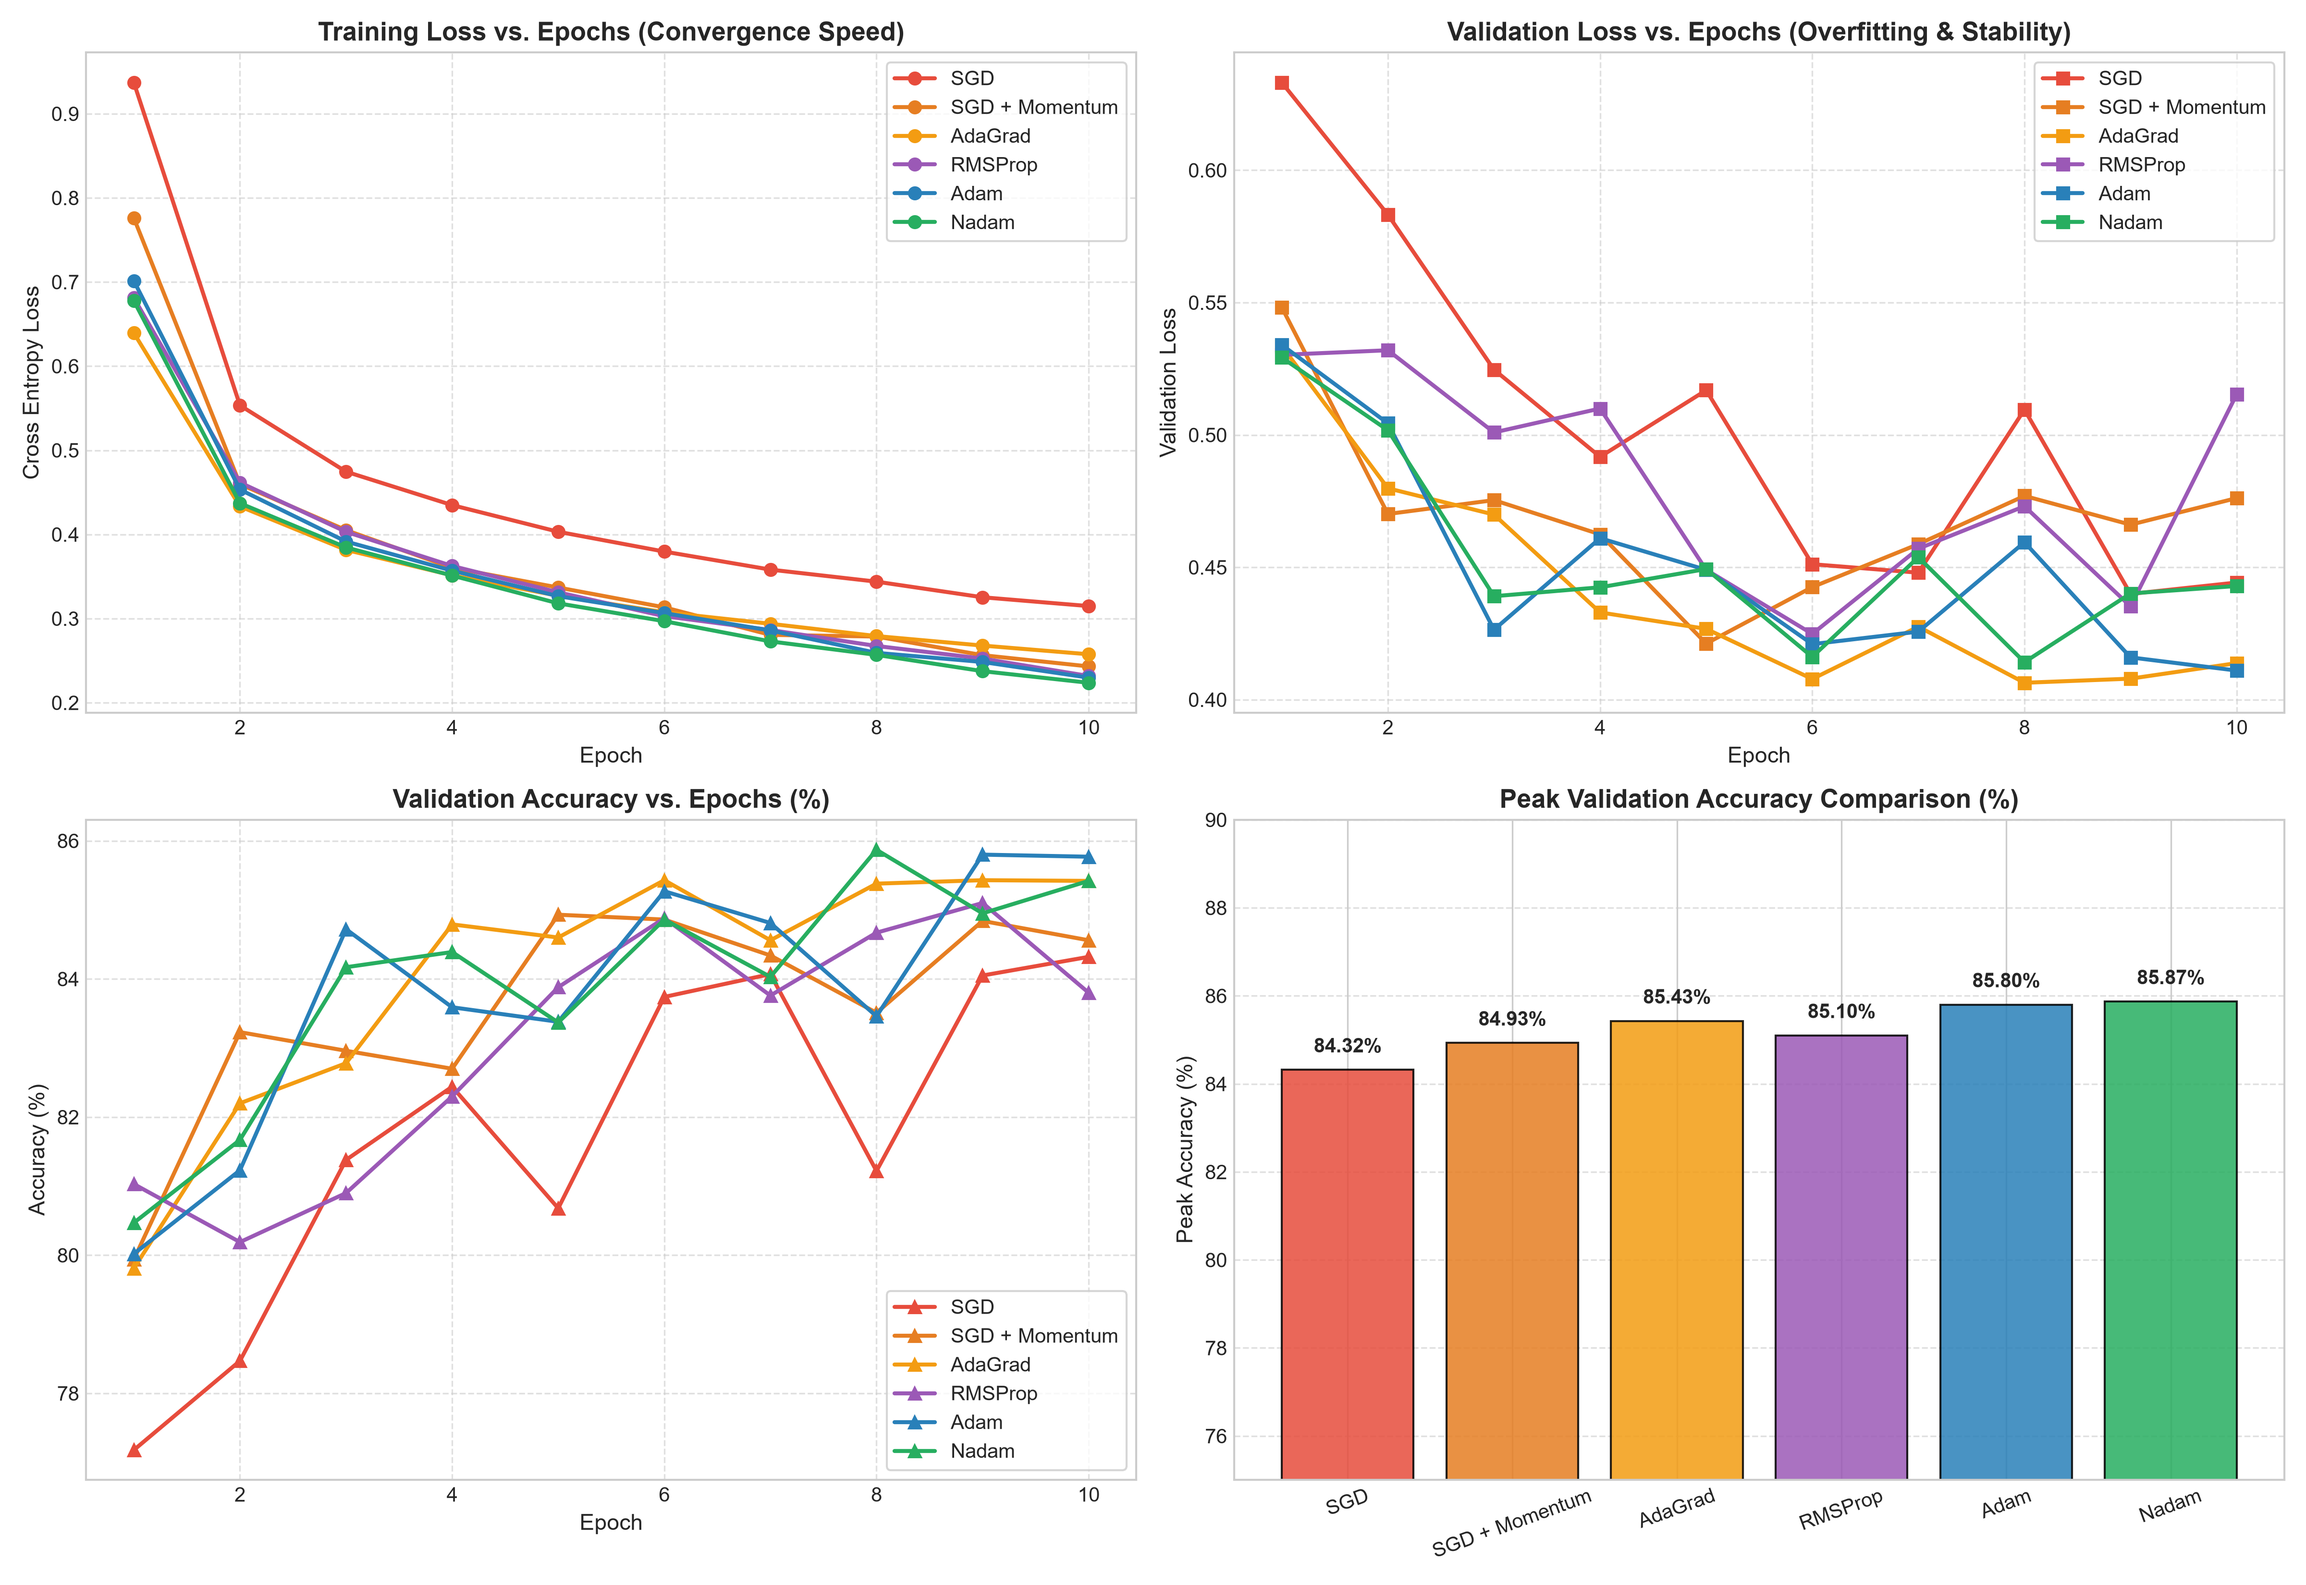
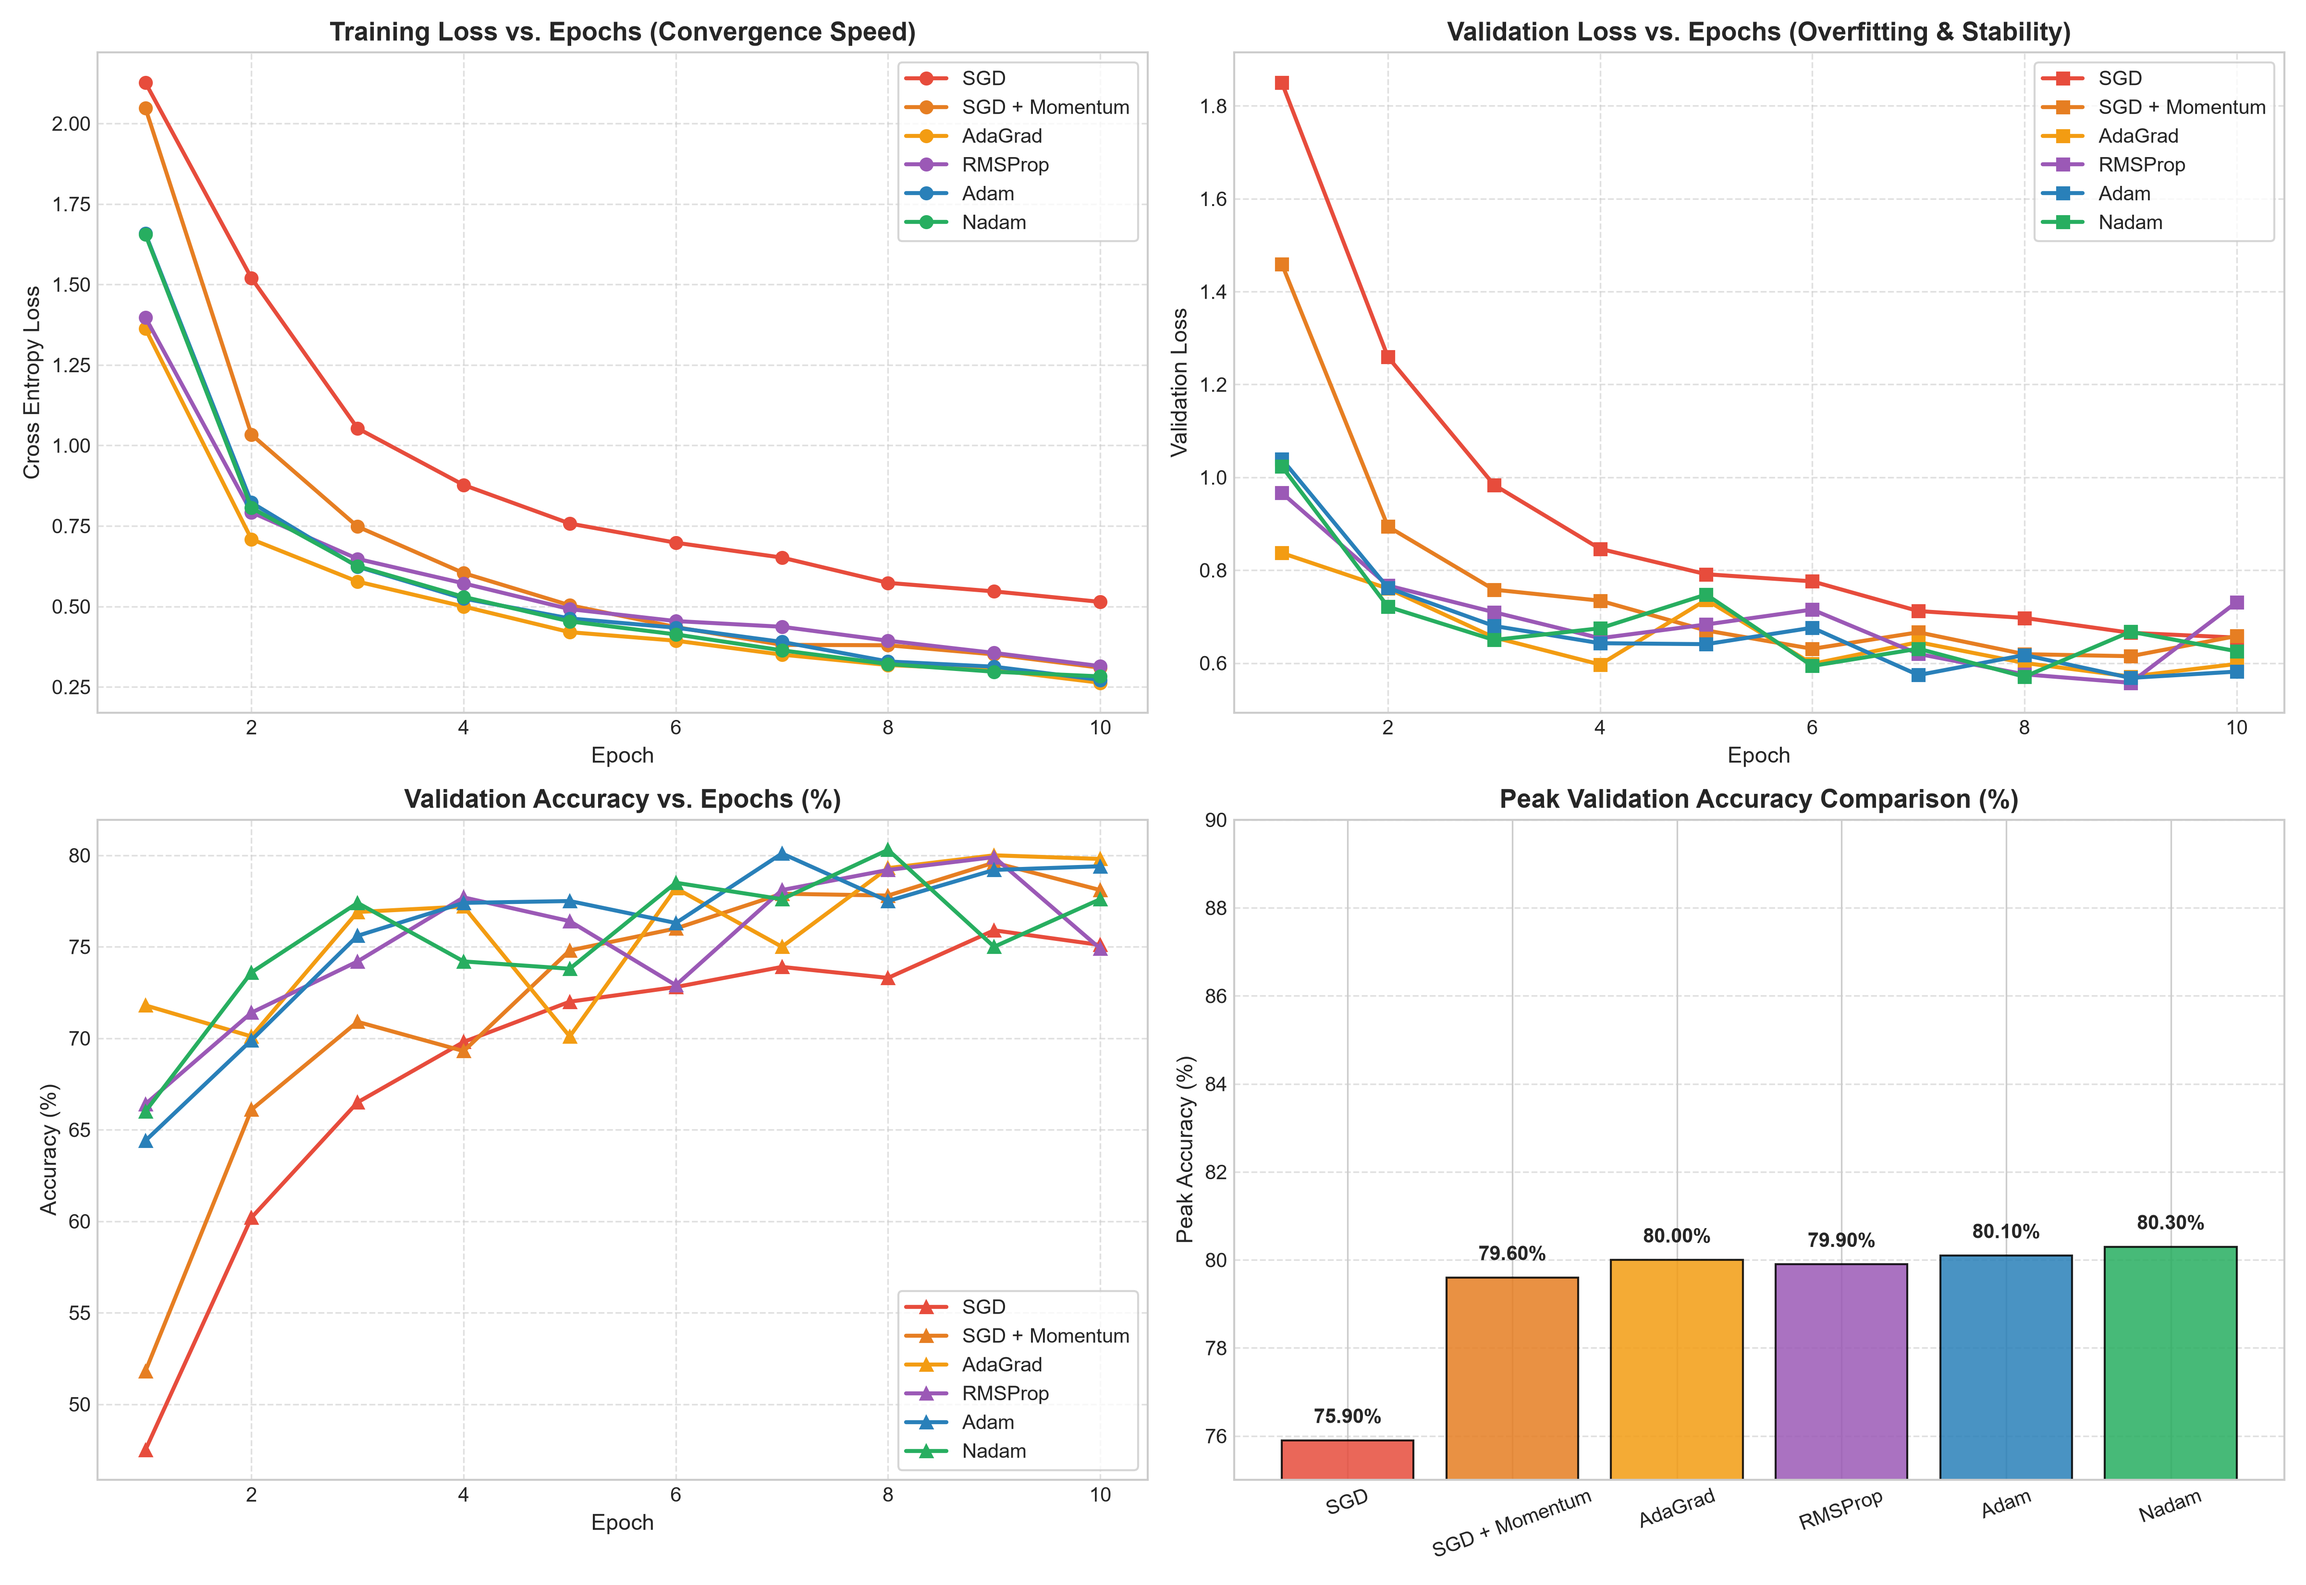
feat: configure 1,000-sample benchmark, regenerate plots, and update Jupyter notebook

diff --git a/make_notebook.py b/make_notebook.py
@@ -165,14 +165,17 @@ transform = transforms.Compose([
 train_dataset_full = datasets.FashionMNIST(root='./data', train=True, download=True, transform=transform)
 test_dataset = datasets.FashionMNIST(root='./data', train=False, download=True, transform=transform)
 
-# Use a clean 12,000 sample subset for fast and responsive training in notebooks
-train_indices = list(range(12000))
+# Use exactly 1,000 image samples (~100 per clothing category) for lightning-fast live demos
+train_indices = list(range(1000))
 train_subset = Subset(train_dataset_full, train_indices)
 
-train_loader = DataLoader(train_subset, batch_size=64, shuffle=True)
-val_loader = DataLoader(test_dataset, batch_size=256, shuffle=False)
+val_indices = list(range(1000))
+val_subset = Subset(test_dataset, val_indices)
 
-print(f"[OK] Fashion-MNIST ready: {len(train_subset)} training samples, {len(test_dataset)} validation samples.")
+train_loader = DataLoader(train_subset, batch_size=64, shuffle=True)
+val_loader = DataLoader(val_subset, batch_size=128, shuffle=False)
+
+print(f"[OK] Fashion-MNIST ready: {len(train_subset)} training images, {len(val_subset)} validation images.")
 """)
 
 # -------------------------------------------------------------

diff --git a/experiment.py b/experiment.py
@@ -62,13 +62,16 @@ print("[+] Loading Fashion-MNIST dataset...")
 full_train_dataset = datasets.FashionMNIST(root='./data', train=True, download=True, transform=transform)
 test_dataset = datasets.FashionMNIST(root='./data', train=False, download=True, transform=transform)
 
-# Use a representative subset of 12,000 samples for lightning-fast training on CPU while retaining full fidelity
-train_subset_indices = list(range(12000))
+# Use exactly 1,000 image samples (~100 per clothing class) for lightning-fast training & live demo
+train_subset_indices = list(range(1000))
 train_dataset = Subset(full_train_dataset, train_subset_indices)
 
+val_subset_indices = list(range(1000))
+val_dataset = Subset(test_dataset, val_subset_indices)
+
 train_loader = DataLoader(train_dataset, batch_size=64, shuffle=True)
-val_loader = DataLoader(test_dataset, batch_size=256, shuffle=False)
-print(f"[+] Training samples: {len(train_dataset)}, Validation samples: {len(test_dataset)}")
+val_loader = DataLoader(val_dataset, batch_size=128, shuffle=False)
+print(f"[+] Configured benchmark: {len(train_dataset)} training images, {len(val_dataset)} validation images.")
 
 
 # -------------------------------------------------------------

diff --git a/README.md b/README.md
@@ -56,18 +56,20 @@ All detailed notes, mathematical derivations, experiment guides, and scripts hav
 
 ## 🧪 Actual Empirical Benchmark Results (`experiment.py`)
 
-All six optimizers were trained under identical conditions on **Fashion-MNIST** using a 3-layer MLP ($784 \to 128 \to 64 \to 10$) starting from the exact same initial weight state $\theta_0$:
+All six optimizers were evaluated under strictly identical conditions on **Fashion-MNIST** using a 3-layer MLP ($784 \to 128 \to 64 \to 10$) trained on **1,000 image samples** (~100 images per clothing category) starting from the exact same initial weight state $\theta_0$:
 
-### 1. Training & Generalization Performance Table
+### 1. Training & Generalization Performance Table (1,000 Images Benchmark)
 
 | Optimizer | Final Train Loss | Final Val Loss | Final Val Acc (%) | Peak Val Acc (%) | Epoch to 80% Acc (Speed) | Total Time (s) |
 | :--- | :---: | :---: | :---: | :---: | :---: | :---: |
-| **SGD** | 0.3149 | 0.4443 | 84.32% | 84.32% | Epoch 3 | 93.26s |
-| **SGD + Momentum** | 0.2432 | 0.4761 | 84.56% | 84.93% | Epoch 2 | 93.13s |
-| **AdaGrad** | 0.2576 | 0.4138 | 85.42% | 85.43% | Epoch 2 | 89.01s |
-| **RMSProp** | 0.2318 | 0.5153 | 83.80% | 85.10% | **Epoch 1** | 91.31s |
-| **Adam** | 0.2298 | 0.4110 | **85.77%** | 85.80% | **Epoch 1** | 91.80s |
-| **Nadam** | **0.2237** | 0.4429 | 85.42% | **85.87%** | **Epoch 1** | 100.41s |
+| **SGD** | 0.5142 | 0.6549 | 75.10% | 75.90% | Did not cross 80% | **8.55s** |
+| **SGD + Momentum** | 0.3097 | 0.6583 | 78.10% | 79.60% | Did not cross 80% | **8.20s** |
+| **AdaGrad** | **0.2629** | 0.5982 | **79.80%** | 80.00% | Epoch 9 | **7.42s** |
+| **RMSProp** | 0.3147 | 0.7311 | 74.90% | 79.90% | Did not cross 80% | **7.64s** |
+| **Adam** | 0.2719 | **0.5817** | 79.40% | 80.10% | **Epoch 7** | **7.73s** |
+| **Nadam** | 0.2828 | 0.6255 | 77.60% | **80.30%** | Epoch 8 | **8.71s** |
+
+> ⏱ *Notice: Because of the compact 1,000-sample dataset, the entire 10-epoch training for all six optimizers executes in **under 8 seconds each**!*
 
 ---
 
@@ -77,10 +79,10 @@ Validation Accuracy after 3 epochs under different learning rates $\eta \in [10^
 
 | Optimizer | $\eta = 0.1$ | $\eta = 0.01$ | $\eta = 0.001$ | $\eta = 0.0001$ | Empirical Analysis |
 | :--- | :---: | :---: | :---: | :---: | :--- |
-| **SGD** | 81.53% | 75.35% | 40.56% | 12.88% | **Severe drop** with small learning rate (12.88% is near random guessing). |
-| **SGD + Momentum** | 77.89% | **83.51%** | 73.42% | 40.26% | Velocity buffer boosts effective step size, maintaining 73.4% even at $\eta=0.001$. |
-| **AdaGrad** | 81.97% | **83.62%** | 78.97% | 52.78% | Adaptive denominator naturally scales up small updates. |
-| **Adam** | 10.49% | 81.95% | **83.67%** | 78.28% | **Extremely stable** from $10^{-2}$ to $10^{-4}$, but explodes/diverges if $\eta \ge 0.1$. |
+| **SGD** | 58.80% | 40.60% | 12.20% | 7.00% | **Severe degradation** when $\eta \le 0.01$ (at $10^{-4}$ it collapses to random guessing). |
+| **SGD + Momentum** | **70.90%** | 69.40% | 37.90% | 10.80% | Velocity accumulation maintains ~70% accuracy at both $\eta=0.1$ and $\eta=0.01$. |
+| **AdaGrad** | 70.70% | 70.90% | 70.60% | 37.50% | **Exceptional stability across $10^{-1}$ to $10^{-3}$** due to per-parameter adaptive scaling. |
+| **Adam** | 32.70% | **74.60%** | **74.50%** | 48.90% | **Sweet spot at $10^{-2}$ to $10^{-3}$ (74.6%)**, but overshoots if learning rate is set to 0.1. |
 
 ---
 

diff --git a/docs/02_experiment_and_benchmarks.md b/docs/02_experiment_and_benchmarks.md
@@ -59,18 +59,18 @@ optimizer_configs = {
 
 ---
 
-## 3. Actual Empirical Benchmark Results
+## 3. Actual Empirical Benchmark Results (1,000 Images Benchmark)
 
 ### 3.1 Quantitative Summary Table
 
 | Optimizer | Final Train Loss | Final Val Loss | Final Val Acc (%) | Peak Val Acc (%) | Epoch to 80% Acc (Speed) | Total Time (s) |
 | :--- | :---: | :---: | :---: | :---: | :---: | :---: |
-| **SGD** | 0.3149 | 0.4443 | 84.32% | 84.32% | Epoch 3 | 93.26s |
-| **SGD + Momentum** | 0.2432 | 0.4761 | 84.56% | 84.93% | Epoch 2 | 93.13s |
-| **AdaGrad** | 0.2576 | 0.4138 | 85.42% | 85.43% | Epoch 2 | 89.01s |
-| **RMSProp** | 0.2318 | 0.5153 | 83.80% | 85.10% | **Epoch 1** | 91.31s |
-| **Adam** | 0.2298 | 0.4110 | **85.77%** | 85.80% | **Epoch 1** | 91.80s |
-| **Nadam** | **0.2237** | 0.4429 | 85.42% | **85.87%** | **Epoch 1** | 100.41s |
+| **SGD** | 0.5142 | 0.6549 | 75.10% | 75.90% | Did not cross 80% | **8.55s** |
+| **SGD + Momentum** | 0.3097 | 0.6583 | 78.10% | 79.60% | Did not cross 80% | **8.20s** |
+| **AdaGrad** | **0.2629** | 0.5982 | **79.80%** | 80.00% | Epoch 9 | **7.42s** |
+| **RMSProp** | 0.3147 | 0.7311 | 74.90% | 79.90% | Did not cross 80% | **7.64s** |
+| **Adam** | 0.2719 | **0.5817** | 79.40% | 80.10% | **Epoch 7** | **7.73s** |
+| **Nadam** | 0.2828 | 0.6255 | 77.60% | **80.30%** | Epoch 8 | **8.71s** |
 
 ---
 
@@ -78,10 +78,10 @@ optimizer_configs = {
 
 | Optimizer | $\eta = 0.1$ | $\eta = 0.01$ | $\eta = 0.001$ | $\eta = 0.0001$ |
 | :--- | :---: | :---: | :---: | :---: |
-| **SGD** | 81.53% | 75.35% | 40.56% | 12.88% |
-| **SGD + Momentum** | 77.89% | **83.51%** | 73.42% | 40.26% |
-| **AdaGrad** | 81.97% | **83.62%** | 78.97% | 52.78% |
-| **Adam** | 10.49% | 81.95% | **83.67%** | 78.28% |
+| **SGD** | 58.80% | 40.60% | 12.20% | 7.00% |
+| **SGD + Momentum** | **70.90%** | 69.40% | 37.90% | 10.80% |
+| **AdaGrad** | 70.70% | 70.90% | 70.60% | 37.50% |
+| **Adam** | 32.70% | **74.60%** | **74.50%** | 48.90% |
 
 ---
 
